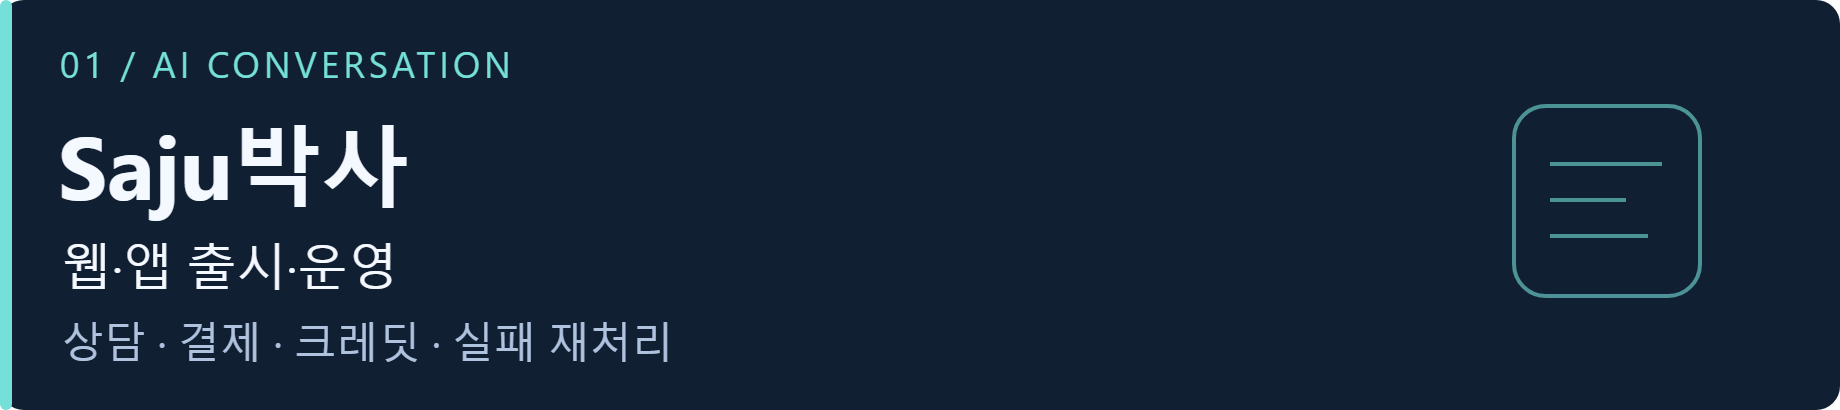
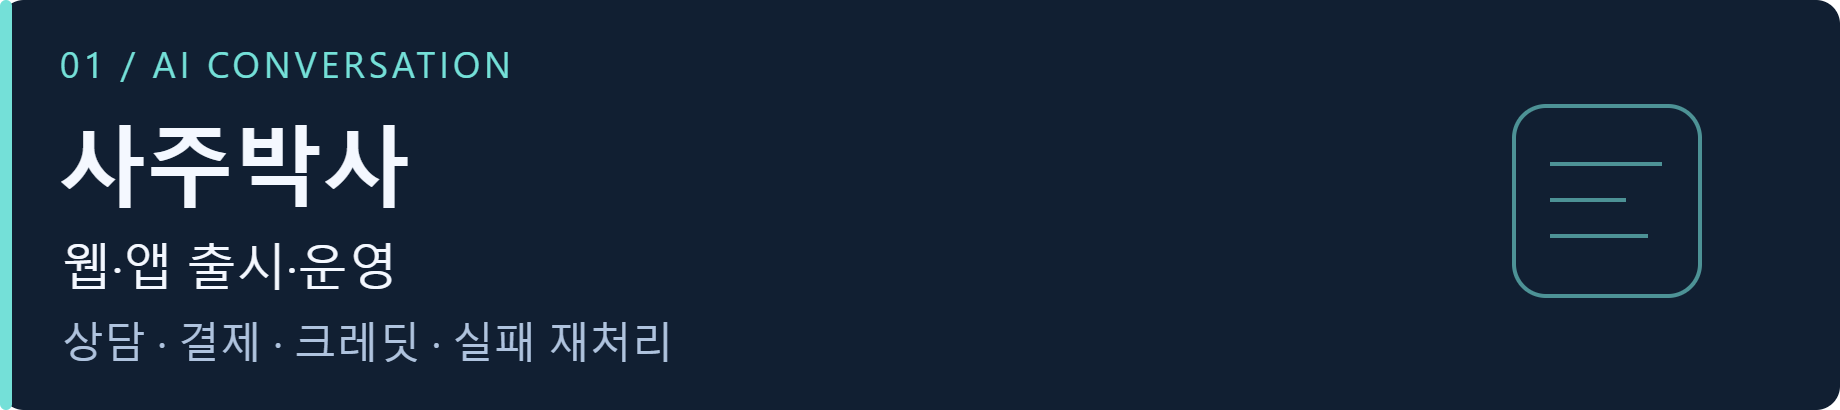
fix: use 사주박사 consistently in profile

Changed region(s): [[0.031, 0.2927, 0.1549, 0.5561], [0.1549, 0.322, 0.2168, 0.4683]]

diff --git a/README.md b/README.md
@@ -71,10 +71,10 @@ KMP 앱·Spring Boot 백엔드·관리자 화면을 개발하고 **SSE 스트리
 <picture>
 <source media="(prefers-color-scheme: dark)" srcset="assets/ai/saju-dark.png">
 <source media="(prefers-color-scheme: light)" srcset="assets/ai/saju-light.png">
-<img src="assets/ai/saju-light.png" width="100%" alt="Saju박사 — AI 상담 서비스. 웹·앱 출시·운영.">
+<img src="assets/ai/saju-light.png" width="100%" alt="사주박사 — AI 상담 서비스. 웹·앱 출시·운영.">
 </picture>
 
-### [Saju박사](https://play.google.com/store/apps/details?id=com.sajubaksa.android)
+### [사주박사](https://play.google.com/store/apps/details?id=com.sajubaksa.android)
 **웹·앱 출시·운영**  
 웹·모바일·백엔드를 개발하고 AI 상담, 대화 저장, 크레딧 과금·인앱결제를 연결했습니다. 결제 Webhook의 처리 상태를 원장에 남기고, 중복 전달과 내부 재시도를 분리해 실패 이벤트를 재처리합니다.
 
